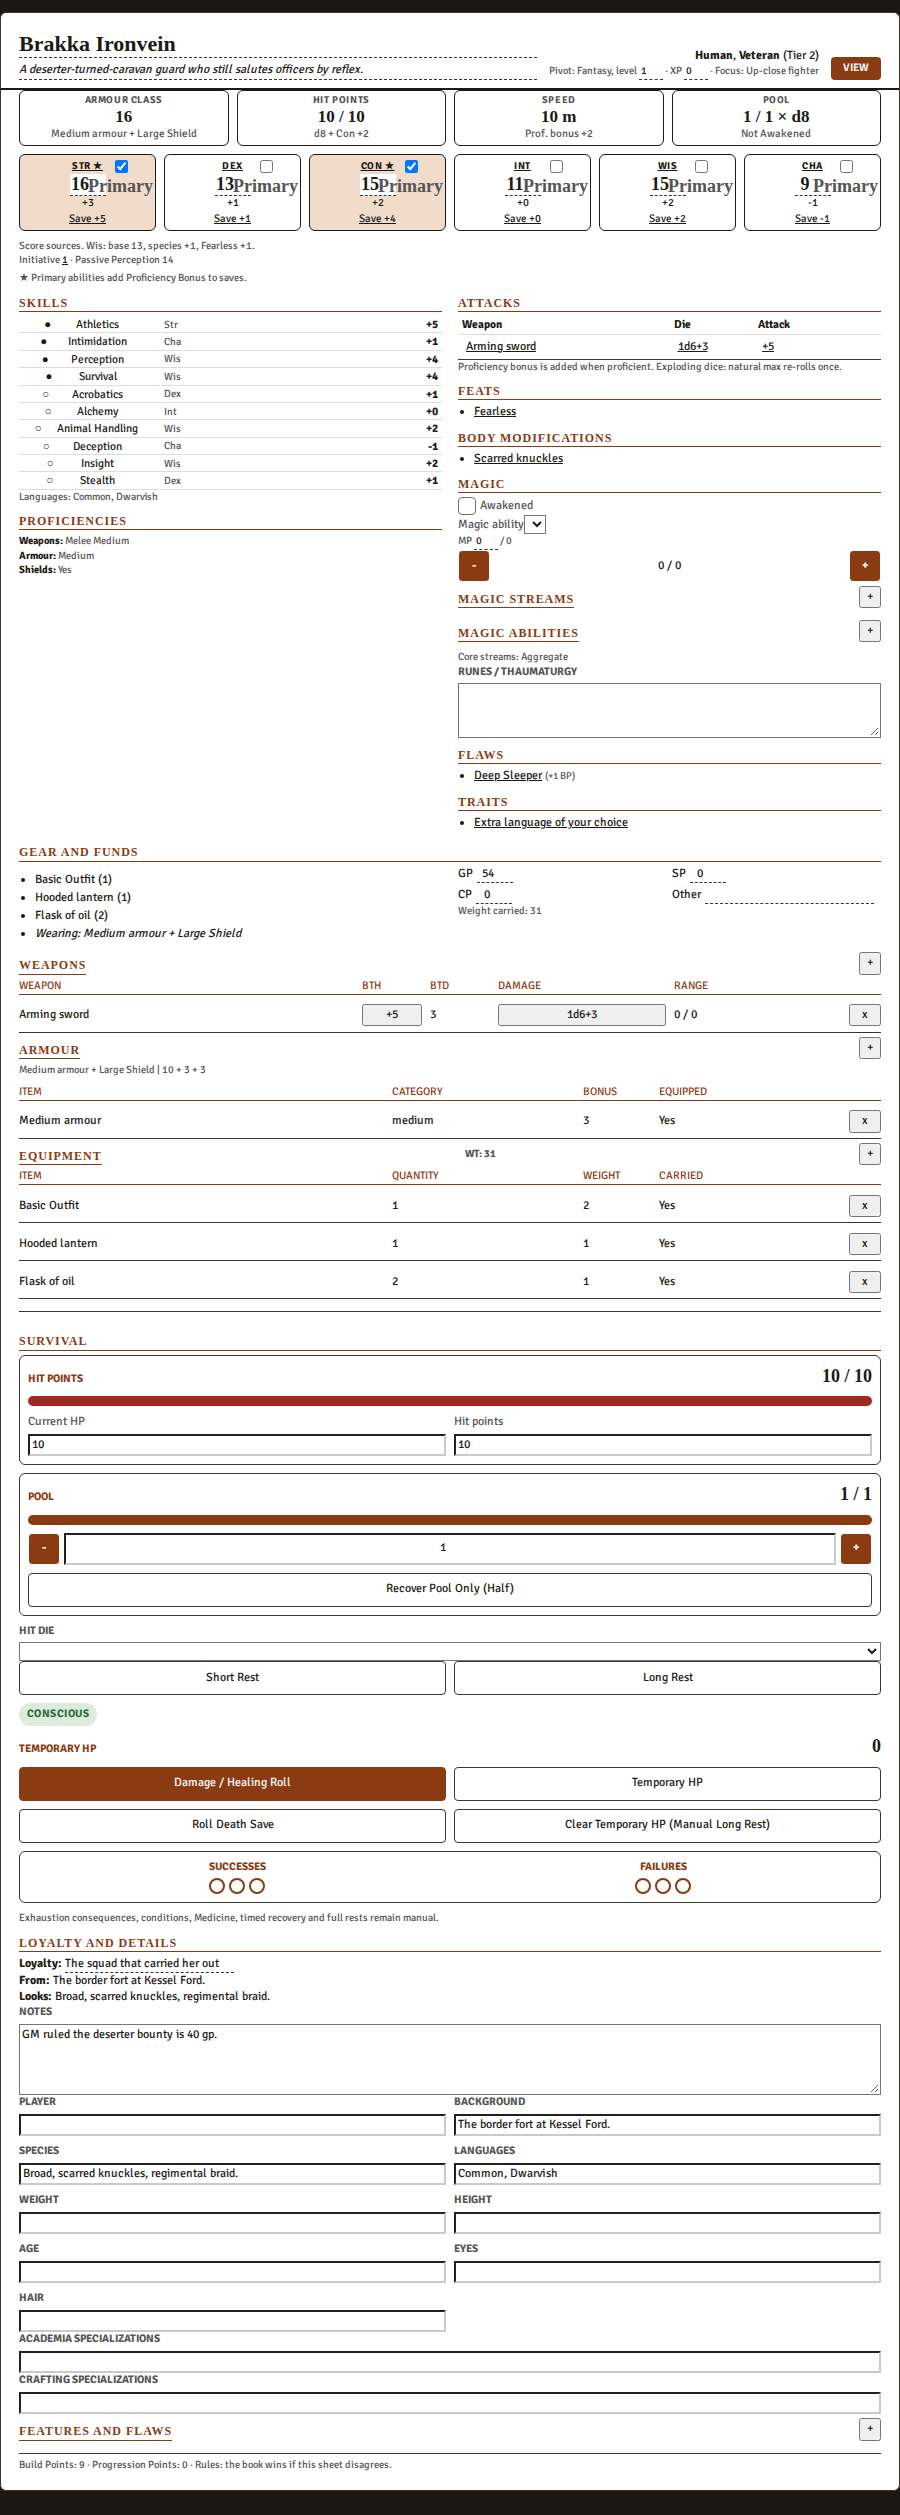
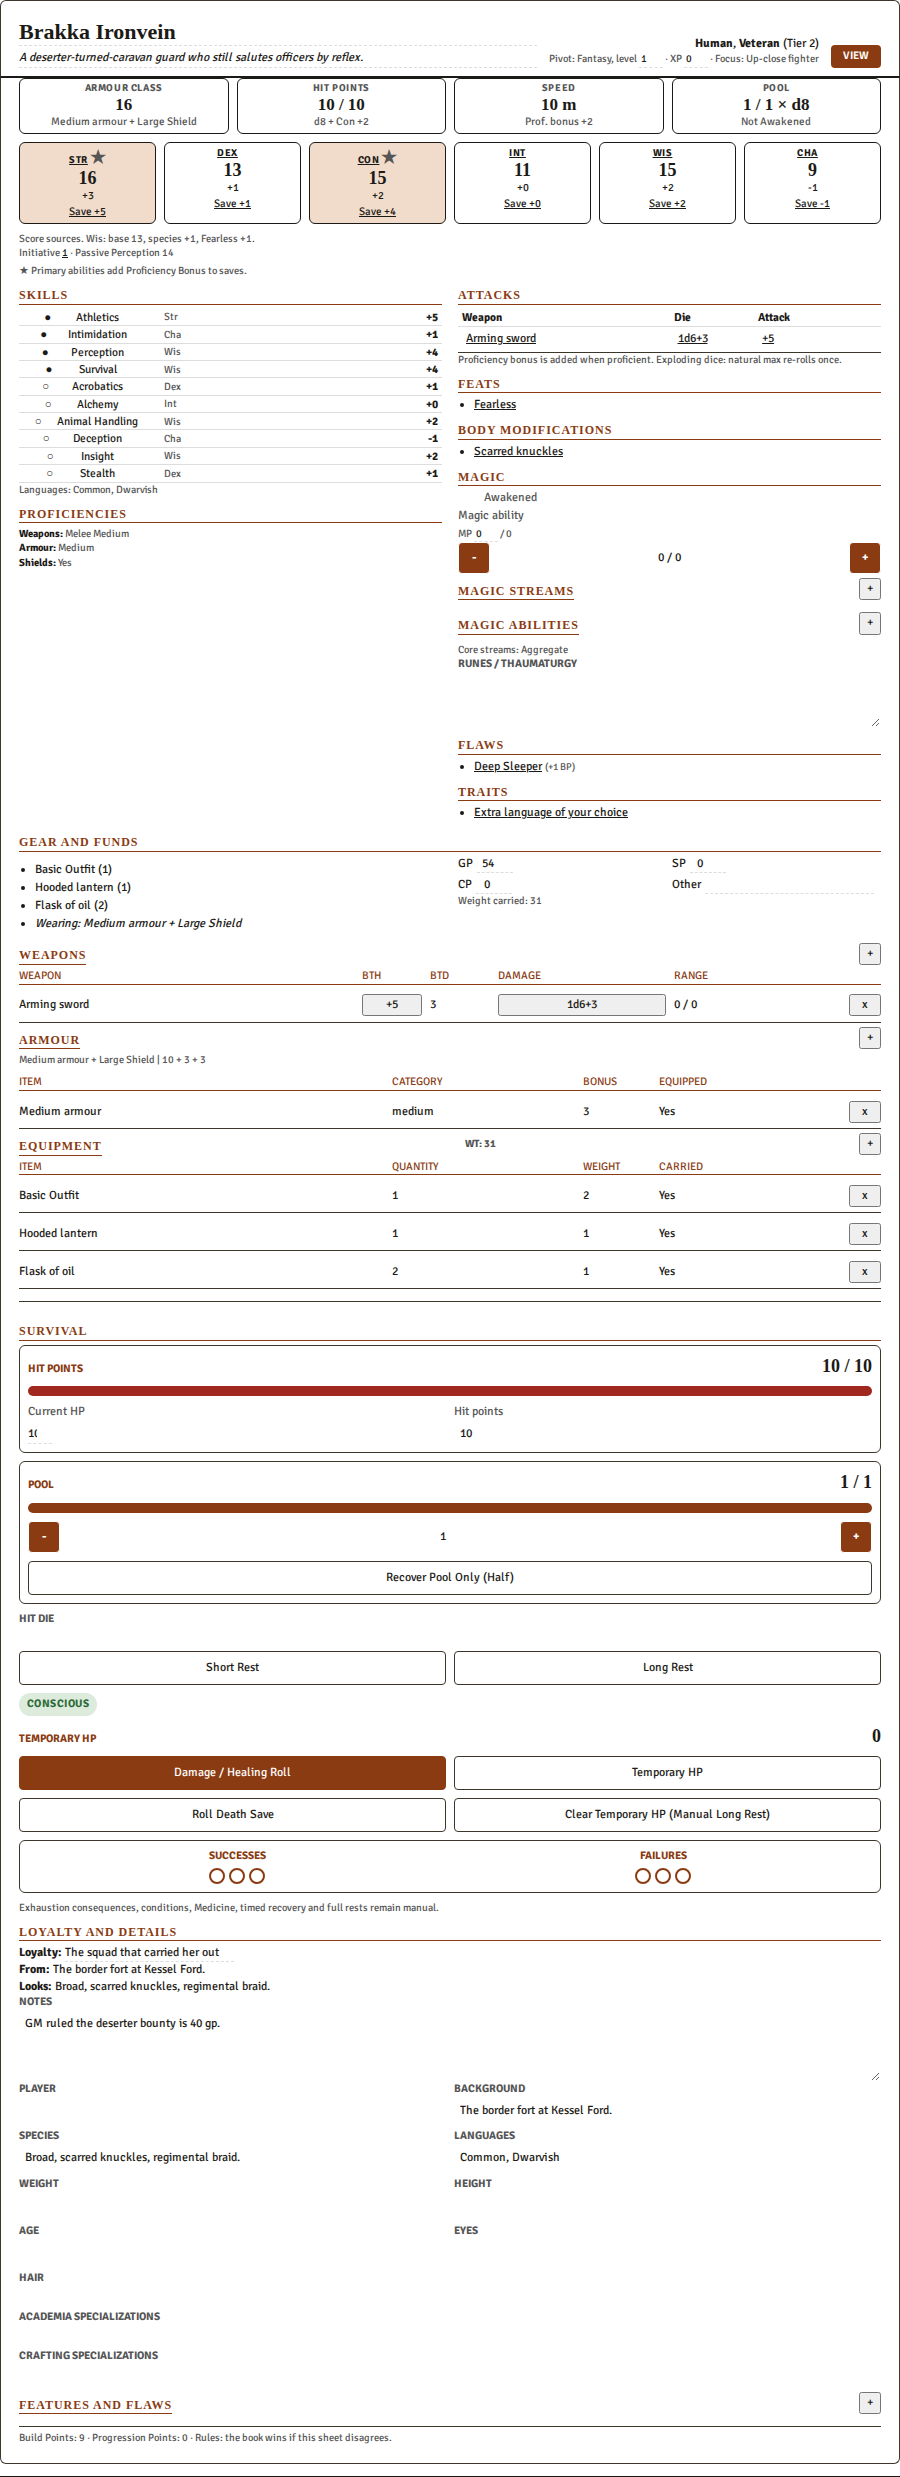
fix: beat Foundry form chrome on the review sheet
The harness never loaded Foundry's input and table rules, and our selectors lost to them in v14.361. Current HP submits and clamps to max, the view toggle follows an instance flag, ability primary is a star on the same field, and the window is one white sheet.

diff --git a/tests/sheets/character-sheet.test.ts b/tests/sheets/character-sheet.test.ts
@@ -5,6 +5,7 @@ import {
   buildD20ChatFlavor,
   buildRollModeDialogContent,
   createEmbeddedItemData,
+  createPivotCharacterSheetClass,
   naturalResultsFromRoll,
   nextResourceValue,
   normalizeSheetSubmitData,
@@ -716,5 +717,74 @@ describe("D20 roll attachments for Dice So Nice!", () => {
     expect(chatCreate).toHaveBeenCalledTimes(1);
     const messageData = chatCreate.mock.calls[0]?.[0] as Record<string, unknown>;
     expect(messageData.content).toBe(renderedContent);
+  });
+});
+
+describe("character sheet edit toggle", () => {
+  function sheetClass(ownerEditable: boolean) {
+    return createPivotCharacterSheetClass({
+      applications: {
+        api: { HandlebarsApplicationMixin: (base: unknown) => base },
+        sheets: {
+          ActorSheetV2: class ActorSheetV2 {
+            static DEFAULT_OPTIONS = {};
+            async _prepareContext() {
+              return { editable: ownerEditable };
+            }
+          },
+        },
+      },
+    } as never);
+  }
+
+  it("switches an owner between edit and view, and keeps a non-owner in view", async () => {
+    type SheetInstance = {
+      editorOpen?: boolean;
+      document: ActorLike;
+      render: () => void;
+      _prepareContext: (options: Record<string, unknown>) => Promise<{
+        editable: boolean;
+        disabledAttr: string;
+      }>;
+    };
+    const SheetClass = sheetClass(true);
+    const sheet = new SheetClass() as SheetInstance;
+    sheet.document = sampleActor();
+    sheet.render = () => undefined;
+    const toggle = (
+      SheetClass as unknown as {
+        DEFAULT_OPTIONS: { actions: { toggleEditMode: (this: SheetInstance) => void } };
+      }
+    ).DEFAULT_OPTIONS.actions.toggleEditMode;
+
+    const editing = await sheet._prepareContext({});
+    expect(editing.editable).toBe(true);
+    expect(editing.disabledAttr).toBe("");
+
+    toggle.call(sheet);
+    const viewing = await sheet._prepareContext({});
+    expect(sheet.editorOpen).toBe(false);
+    expect(viewing.editable).toBe(false);
+    expect(viewing.disabledAttr).toBe("disabled");
+
+    toggle.call(sheet);
+    const editingAgain = await sheet._prepareContext({});
+    expect(editingAgain.editable).toBe(true);
+    expect(editingAgain.disabledAttr).toBe("");
+
+    const LockedSheet = sheetClass(false);
+    const locked = new LockedSheet() as SheetInstance;
+    locked.document = sampleActor();
+    locked.render = () => undefined;
+    const lockedToggle = (
+      LockedSheet as unknown as {
+        DEFAULT_OPTIONS: { actions: { toggleEditMode: (this: SheetInstance) => void } };
+      }
+    ).DEFAULT_OPTIONS.actions.toggleEditMode;
+    lockedToggle.call(locked);
+    lockedToggle.call(locked);
+    const stillLocked = await locked._prepareContext({});
+    expect(stillLocked.editable).toBe(false);
+    expect(stillLocked.disabledAttr).toBe("disabled");
   });
 });

diff --git a/styles/pivot-fantasy.css b/styles/pivot-fantasy.css
@@ -1611,3 +1611,108 @@
 .pf-sheet .pf-character-sheet {
   container-name: pf-sheet;
 }
+
+/* Beat Foundry v14 form chrome. The application root carries these classes. */
+.pivot-fantasy.sheet.actor.character .window-content {
+  background: #fff;
+  color: #1c1a16;
+  padding: 0;
+}
+
+.pivot-fantasy.sheet.actor.character .window-content > .pf-print-wrap {
+  align-self: stretch;
+  box-sizing: border-box;
+  flex: 0 0 auto;
+  margin-left: 0;
+  margin-right: 0;
+  max-width: none;
+  width: 100%;
+}
+
+.pivot-fantasy.sheet.actor.character .pf-print :is(input, select, textarea) {
+  appearance: none;
+  background: transparent;
+  border: 0;
+  border-radius: 0;
+  box-shadow: none;
+  color: var(--pf-sheet-ink);
+  min-height: 0;
+}
+
+.pivot-fantasy.sheet.actor.character .pf-print :is(input, select, textarea):disabled {
+  background: transparent;
+  border-color: transparent;
+  box-shadow: none;
+  color: var(--pf-sheet-ink);
+  opacity: 1;
+}
+
+.pivot-fantasy.sheet.actor.character .pf-print .pf-inline {
+  background: transparent;
+  border: 0;
+  border-bottom: 1px dashed var(--pf-sheet-rule);
+  border-radius: 0;
+  box-shadow: none;
+  color: var(--pf-sheet-ink);
+  padding: 0;
+}
+
+.pivot-fantasy.sheet.actor.character .pf-print .pf-ab-score {
+  background: transparent;
+  border: 0;
+  border-radius: 0;
+  box-shadow: none;
+  font: 700 18px var(--pf-font-display);
+  height: auto;
+  padding: 0;
+  text-align: center;
+  width: 100%;
+}
+
+.pivot-fantasy.sheet.actor.character .pf-print .pf-ab-score::-webkit-inner-spin-button,
+.pivot-fantasy.sheet.actor.character .pf-print .pf-ab-score::-webkit-outer-spin-button {
+  appearance: none;
+  margin: 0;
+}
+
+.pivot-fantasy.sheet.actor.character .pf-print .pf-ab-head {
+  align-items: baseline;
+  display: flex;
+  gap: 2px;
+  justify-content: center;
+}
+
+.pivot-fantasy.sheet.actor.character .pf-print .pf-prime-toggle {
+  cursor: pointer;
+  font-size: 10px;
+  line-height: 1;
+  min-height: 1em;
+  min-width: 0.8em;
+  position: static;
+}
+
+.pivot-fantasy.sheet.actor.character .pf-print .pf-prime-toggle input.pf-sr {
+  border: 0;
+  clip: rect(0, 0, 0, 0);
+  clip-path: inset(50%);
+  height: 1px;
+  margin: -1px;
+  overflow: hidden;
+  padding: 0;
+  position: absolute;
+  white-space: nowrap;
+  width: 1px;
+}
+
+.pivot-fantasy.sheet.actor.character .pf-print table.pf-skills tr,
+.pivot-fantasy.sheet.actor.character .pf-print table.pf-skills tr:nth-child(odd),
+.pivot-fantasy.sheet.actor.character .pf-print table.pf-skills tr:nth-child(even) {
+  background: transparent;
+}
+
+.pivot-fantasy.sheet.actor.character .pf-print table.pf-attacks thead,
+.pivot-fantasy.sheet.actor.character .pf-print table.pf-attacks thead th {
+  background: transparent;
+  box-shadow: none;
+  color: var(--pf-sheet-ink);
+}

diff --git a/src/sheets/character-sheet.ts b/src/sheets/character-sheet.ts
@@ -207,6 +207,8 @@ export function createPivotCharacterSheetClass(foundry: FoundryRuntime): TypeDat
   );
 
   class PivotCharacterSheet extends BaseSheet {
+    editorOpen: boolean | undefined;
+
     static DEFAULT_OPTIONS = {
       classes: ["pivot-fantasy", "pf-sheet", SYSTEM_ID, "sheet", "actor", "character"],
       position: { width: 820, height: 760 },
@@ -221,15 +223,11 @@ export function createPivotCharacterSheetClass(foundry: FoundryRuntime): TypeDat
       },
       actions: {
         roll: rollAction,
-        toggleEditMode: function (
-          this: PivotCharacterSheet & {
-            options: { editable?: boolean };
-            render: (force?: boolean) => void;
-          },
-        ) {
-          // Toggle edit mode by inverting options.editable
-          const currentEditable = this.options.editable !== false;
-          this.options.editable = !currentEditable;
+        toggleEditMode: function (this: {
+          editorOpen?: boolean;
+          render: (force?: boolean) => void;
+        }) {
+          this.editorOpen = this.editorOpen === false;
           this.render();
         },
         survivalRoll: async function (this: { document: ActorLike }) {
@@ -276,9 +274,10 @@ export function createPivotCharacterSheetClass(foundry: FoundryRuntime): TypeDat
     async _prepareContext(options: Record<string, unknown>): Promise<Record<string, unknown>> {
       const parentContext = await callOptionalSuper(this, "_prepareContext", options);
       const actor = getSheetDocument(this);
+      const showEditor = sheetShowsEditor(parentContext.editable !== false, this.editorOpen);
       return {
         ...parentContext,
-        ...prepareCharacterSheetContext(actor, parentContext.editable !== false),
+        ...prepareCharacterSheetContext(actor, showEditor),
       };
     }
   }
@@ -322,6 +321,10 @@ function formatScoreSources(
     return [`${abilityPrintCode(key)}: base ${abilitySources[key].score}, ${sources.join(", ")}`];
   });
   return parts.length > 0 ? `Score sources. ${parts.join("; ")}.` : "";
+}
+
+export function sheetShowsEditor(ownerCanEdit: boolean, editorOpen: boolean | undefined): boolean {
+  return ownerCanEdit && editorOpen !== false;
 }
 
 export function prepareCharacterSheetContext(

diff --git a/src/runtime/actor-guards.ts b/src/runtime/actor-guards.ts
@@ -8,13 +8,27 @@ export function guardHpMaximum(
     { attributes?: { hp?: { value?: number; max?: number } } } | undefined;
   const nested = changes.system as
     { attributes?: { hp?: { value?: unknown; max?: unknown } } } | undefined;
-  const max = changes["system.attributes.hp.max"] ?? nested?.attributes?.hp?.max;
+  const currentValue = system?.attributes?.hp?.value ?? 0;
+  const currentMax = system?.attributes?.hp?.max ?? 0;
+  const nestedHp = nested?.attributes?.hp;
+  const rawValue = changes["system.attributes.hp.value"] ?? nestedHp?.value;
+  const rawMax = changes["system.attributes.hp.max"] ?? nestedHp?.max;
+  const nextMax = rawMax === undefined ? currentMax : rawMax;
+  if (
+    rawValue !== undefined &&
+    validAmount(nextMax) &&
+    validAmount(rawValue) &&
+    rawValue > nextMax
+  ) {
+    if (typeof changes["system.attributes.hp.value"] === "number") {
+      changes["system.attributes.hp.value"] = nextMax;
+    }
+    if (nestedHp && typeof nestedHp.value === "number") nestedHp.value = nextMax;
+  }
+
+  const max = changes["system.attributes.hp.max"] ?? nestedHp?.max;
   if (max === undefined) return;
-  const hp =
-    changes["system.attributes.hp.value"] ??
-    nested?.attributes?.hp?.value ??
-    system?.attributes?.hp?.value ??
-    0;
+  const hp = changes["system.attributes.hp.value"] ?? nestedHp?.value ?? currentValue;
   if (!validAmount(max) || !validAmount(hp) || max < hp) {
     warn("InvalidMaximum");
     return false;

diff --git a/scripts/foundry-v14-form-fixture.css b/scripts/foundry-v14-form-fixture.css
@@ -1,0 +1,44 @@
+/* Approximation of Foundry v14 sheet chrome for the local harness. The system does not load this file. */
+.application .window-content {
+  background: #1b1814;
+  color: #ede6d6;
+  display: flex;
+  flex-direction: column;
+}
+
+.application .window-content input[type="text"],
+.application .window-content input[type="number"],
+.application .window-content input[type="search"],
+.application .window-content select,
+.application .window-content textarea {
+  background: #2a2622;
+  border: 1px solid #5c5346;
+  border-radius: 4px;
+  box-shadow:
+    inset 0 1px 2px rgba(0, 0, 0, 0.65),
+    0 1px 0 rgba(255, 255, 255, 0.08);
+  color: #ede6d6;
+  min-height: 26px;
+  padding: 2px 6px;
+}
+
+.application .window-content input[type="checkbox"] {
+  accent-color: #c4552a;
+  appearance: auto;
+  height: 16px;
+  margin: 0 4px 0 0;
+  width: 16px;
+}
+
+.application .window-content table thead {
+  background: #1a120e;
+  color: #f3efe6;
+}
+
+.application .window-content table tbody tr:nth-child(odd) {
+  background: rgba(255, 255, 255, 0.04);
+}
+
+.application .window-content table tbody tr:nth-child(even) {
+  background: rgba(0, 0, 0, 0.18);
+}

diff --git a/tests/runtime/actor-guards.test.ts b/tests/runtime/actor-guards.test.ts
@@ -8,3 +8,10 @@ it("rejects max below current but permits simultaneous valid correction", () => 
   ).toBeUndefined();
   expect(guardHpMaximum(actor, { system: { attributes: { hp: { max: 11 } } } })).toBeUndefined();
 });
+
+it("clamps a current HP edit to the current maximum", () => {
+  const actor = { system: { attributes: { hp: { value: 4, max: 10 } } } };
+  const changes = { system: { attributes: { hp: { value: 25 } } } };
+  expect(guardHpMaximum(actor, changes)).toBeUndefined();
+  expect(changes.system.attributes.hp.value).toBe(10);
+});
